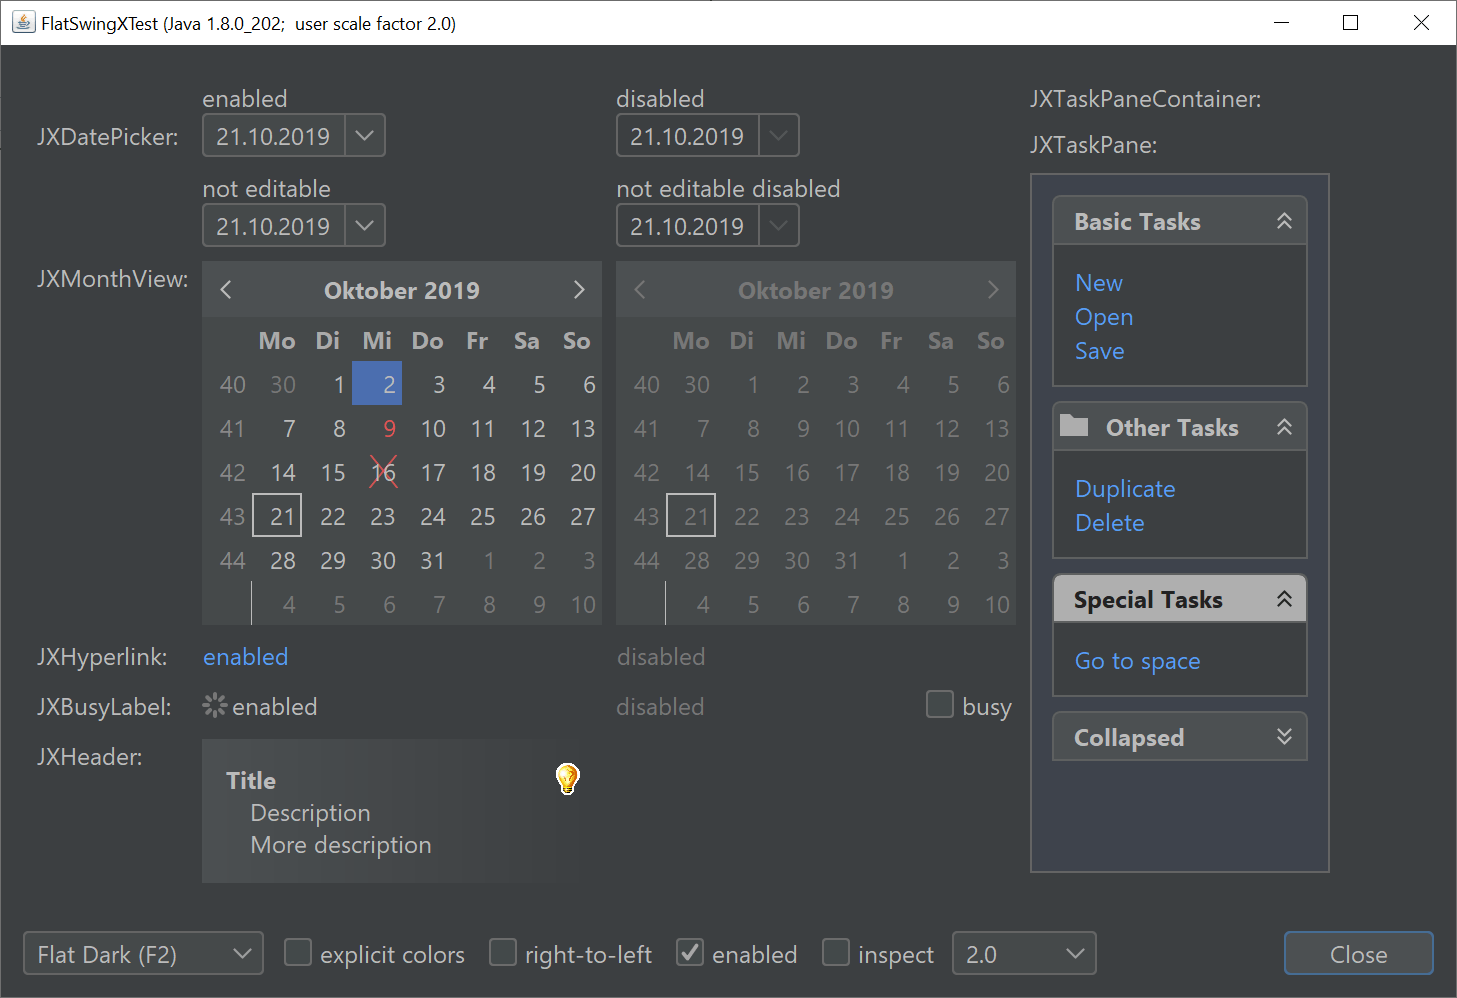
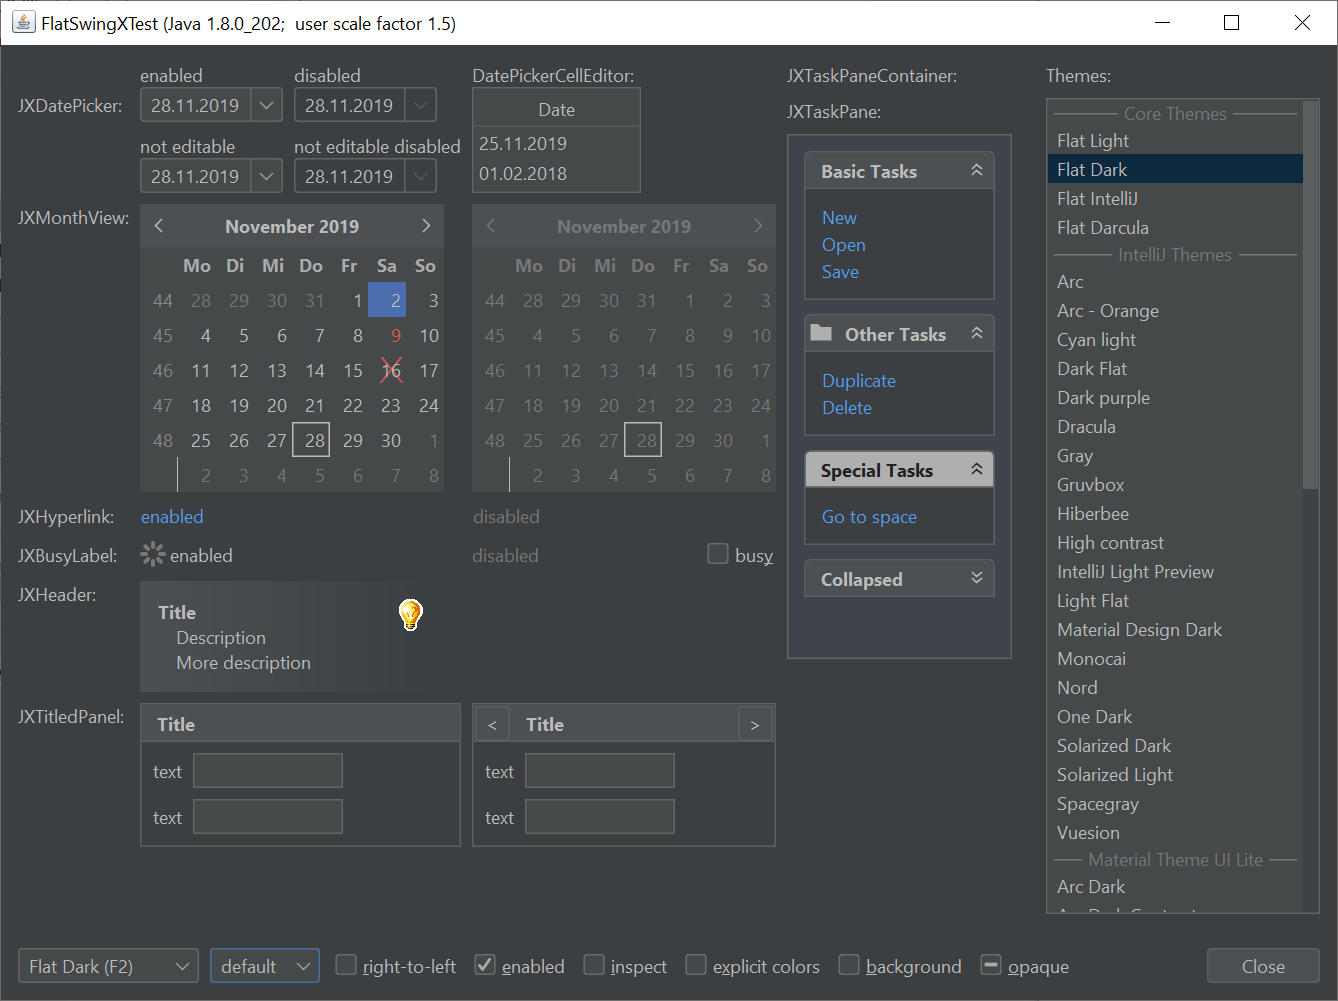
SwingX: JXTitledPanel support (issue #22)

diff --git a/flatlaf-testing/src/main/java/com/formdev/flatlaf/testing/swingx/FlatSwingXTest.java b/flatlaf-testing/src/main/java/com/formdev/flatlaf/testing/swingx/FlatSwingXTest.java
@@ -36,6 +36,12 @@ public class FlatSwingXTest
 	public static void main( String[] args ) {
 		SwingUtilities.invokeLater( () -> {
 			FlatTestFrame frame = FlatTestFrame.create( args, "FlatSwingXTest" );
+
+			// without this, painting becomes very slow as soon as JXTitledPanel
+			// is used, because JXTitledPanel sets opaque to false and JXPanel
+			// then installs its own repaint manager
+			UIManager.put( "JXPanel.patch", true );
+
 			frame.useApplyComponentOrientation = true;
 			frame.showFrame( FlatSwingXTest::new );
 		} );
@@ -107,6 +113,19 @@ public class FlatSwingXTest
 		table = new JTable();
 		JLabel headerLabel = new JLabel();
 		JXHeader xHeader1 = new JXHeader();
+		JXTitledPanel xTitledPanel1 = new JXTitledPanel();
+		JLabel label7 = new JLabel();
+		JTextField textField1 = new JTextField();
+		JLabel label8 = new JLabel();
+		JTextField textField2 = new JTextField();
+		JLabel titledPanelLabel = new JLabel();
+		JXTitledPanel xTitledPanel2 = new JXTitledPanel();
+		JLabel label9 = new JLabel();
+		JTextField textField3 = new JTextField();
+		JLabel label10 = new JLabel();
+		JTextField textField4 = new JTextField();
+		JButton button1 = new JButton();
+		JButton button2 = new JButton();
 
 		//======== this ========
 		setLayout(new MigLayout(
@@ -125,7 +144,9 @@ public class FlatSwingXTest
 			"[]" +
 			"[]" +
 			"[]" +
-			"[]"));
+			"[]" +
+			"[]" +
+			"[37]"));
 
 		//---- label1 ----
 		label1.setText("enabled");
@@ -345,6 +366,70 @@ public class FlatSwingXTest
 		xHeader1.setDescription("Description\nMore description");
 		xHeader1.setIcon(new ImageIcon(getClass().getResource("/org/jdesktop/swingx/plaf/windows/resources/tipoftheday.png")));
 		add(xHeader1, "cell 1 7 3 1,width 200");
+
+		//======== xTitledPanel1 ========
+		{
+			xTitledPanel1.setTitle("Title");
+			xTitledPanel1.setOpaque(true);
+			Container xTitledPanel1ContentContainer = xTitledPanel1.getContentContainer();
+			xTitledPanel1ContentContainer.setLayout(new MigLayout(
+				"hidemode 3",
+				// columns
+				"[fill]" +
+				"[100,fill]",
+				// rows
+				"[]" +
+				"[]"));
+
+			//---- label7 ----
+			label7.setText("text");
+			xTitledPanel1ContentContainer.add(label7, "cell 0 0");
+			xTitledPanel1ContentContainer.add(textField1, "cell 1 0");
+
+			//---- label8 ----
+			label8.setText("text");
+			xTitledPanel1ContentContainer.add(label8, "cell 0 1");
+			xTitledPanel1ContentContainer.add(textField2, "cell 1 1");
+		}
+		add(xTitledPanel1, "cell 1 8 2 1,grow");
+
+		//---- titledPanelLabel ----
+		titledPanelLabel.setText("JXTitledPanel:");
+		add(titledPanelLabel, "cell 0 8,aligny top,growy 0");
+
+		//======== xTitledPanel2 ========
+		{
+			xTitledPanel2.setTitle("Title");
+			xTitledPanel2.setOpaque(true);
+			xTitledPanel2.setLeftDecoration(button1);
+			xTitledPanel2.setRightDecoration(button2);
+			Container xTitledPanel2ContentContainer = xTitledPanel2.getContentContainer();
+			xTitledPanel2ContentContainer.setLayout(new MigLayout(
+				"hidemode 3",
+				// columns
+				"[fill]" +
+				"[100,fill]",
+				// rows
+				"[]" +
+				"[]"));
+
+			//---- label9 ----
+			label9.setText("text");
+			xTitledPanel2ContentContainer.add(label9, "cell 0 0");
+			xTitledPanel2ContentContainer.add(textField3, "cell 1 0");
+
+			//---- label10 ----
+			label10.setText("text");
+			xTitledPanel2ContentContainer.add(label10, "cell 0 1");
+			xTitledPanel2ContentContainer.add(textField4, "cell 1 1");
+		}
+		add(xTitledPanel2, "cell 3 8,grow");
+
+		//---- button1 ----
+		button1.setText("<");
+
+		//---- button2 ----
+		button2.setText(">");
 		// JFormDesigner - End of component initialization  //GEN-END:initComponents
 
 		xDatePicker1.setDate( new Date() );

diff --git a/flatlaf-swingx/src/main/java/com/formdev/flatlaf/swingx/ui/FlatTitledPanelUI.java b/flatlaf-swingx/src/main/java/com/formdev/flatlaf/swingx/ui/FlatTitledPanelUI.java
@@ -1,0 +1,96 @@
+/*
+ * Copyright 2019 FormDev Software GmbH
+ *
+ * Licensed under the Apache License, Version 2.0 (the "License");
+ * you may not use this file except in compliance with the License.
+ * You may obtain a copy of the License at
+ *
+ *     http://www.apache.org/licenses/LICENSE-2.0
+ *
+ * Unless required by applicable law or agreed to in writing, software
+ * distributed under the License is distributed on an "AS IS" BASIS,
+ * WITHOUT WARRANTIES OR CONDITIONS OF ANY KIND, either express or implied.
+ * See the License for the specific language governing permissions and
+ * limitations under the License.
+ */
+
+package com.formdev.flatlaf.swingx.ui;
+
+import static com.formdev.flatlaf.util.UIScale.scale;
+import java.awt.Color;
+import java.awt.Font;
+import java.awt.Graphics2D;
+import java.awt.Insets;
+import java.awt.geom.Rectangle2D;
+import javax.swing.JComponent;
+import javax.swing.UIManager;
+import javax.swing.plaf.ComponentUI;
+import org.jdesktop.swingx.JXTitledPanel;
+import org.jdesktop.swingx.SwingXUtilities;
+import org.jdesktop.swingx.painter.MattePainter;
+import org.jdesktop.swingx.plaf.PainterUIResource;
+import org.jdesktop.swingx.plaf.basic.BasicTitledPanelUI;
+import com.formdev.flatlaf.ui.FlatLineBorder;
+import com.formdev.flatlaf.util.UIScale;
+
+/**
+ * Provides the Flat LaF UI delegate for {@link org.jdesktop.swingx.JXTitledPanel}.
+ *
+ * @author Karl Tauber
+ */
+public class FlatTitledPanelUI
+	extends BasicTitledPanelUI
+{
+	public static ComponentUI createUI( JComponent c ) {
+		return new FlatTitledPanelUI();
+	}
+
+	@Override
+	protected void installDefaults( JXTitledPanel titledPanel ) {
+		super.installDefaults( titledPanel );
+
+		// replace gradient background
+		installProperty( titledPanel, "titlePainter", new PainterUIResource<>(
+			new TitlePainter( UIManager.getColor( "JXTitledPanel.titleBackground" ),
+				UIManager.getColor( "JXTitledPanel.borderColor" ) ) ) );
+
+		// make title bold
+		installProperty( titledPanel, "titleFont", UIManager.getFont( "JXTitledPanel.titleFont" ).deriveFont( Font.BOLD ) );
+	}
+
+	@Override
+	protected void installComponents( JXTitledPanel titledPanel ) {
+		super.installComponents( titledPanel );
+
+		if (SwingXUtilities.isUIInstallable(titledPanel.getBorder()))
+			titledPanel.setBorder( new FlatLineBorder( new Insets( 1, 1, 1, 1 ),
+				UIManager.getColor( "JXTitledPanel.borderColor" ) ) );
+	}
+
+	@Override
+	protected Insets getCaptionInsets() {
+		return UIScale.scale( super.getCaptionInsets() );
+	}
+
+	//---- class TitlePainter -------------------------------------------------
+
+	private static class TitlePainter
+		extends MattePainter
+	{
+		private final Color borderColor;
+
+		TitlePainter( Color color, Color borderColor ) {
+			super( color );
+			this.borderColor = borderColor;
+		}
+
+		@Override
+		protected void doPaint( Graphics2D g, Object component, int width, int height ) {
+			super.doPaint( g, component, width, height );
+
+			float h = scale( 1f );
+			g.setColor( borderColor );
+			g.fill( new Rectangle2D.Float( 0, height - h, width, h ) );
+		}
+	}
+}

diff --git a/flatlaf-swingx/src/main/java/com/formdev/flatlaf/swingx/ui/FlatTaskPaneUI.java b/flatlaf-swingx/src/main/java/com/formdev/flatlaf/swingx/ui/FlatTaskPaneUI.java
@@ -84,7 +84,7 @@ public class FlatTaskPaneUI
 	public void uninstallUI( JComponent c ) {
 		if( group.getContentPane() instanceof JComponent ) {
 			// uninstall our content border, because it does not implement UIResource,
-			// to alloy other LaF to install its own border
+			// to allow other LaF to install its own border
 			JComponent content = (JComponent) group.getContentPane();
 			if( content.getBorder() instanceof FlatContentPaneBorder )
 				content.setBorder( null );

diff --git a/CHANGELOG.md b/CHANGELOG.md
@@ -15,6 +15,7 @@ FlatLaf Change Log
 - ComboBox: Fixed issues with NetBeans `org.openide.awt.ColorComboBox`
   component.
 - Hex color values in `.properties` files now must start with a `#` character.
+- SwingX: Support `JXTitledPanel`. (issue #22)
 - SwingX: Fixed too wide border when using date picker as table cell editor.
   (issue #24)
 - JIDE Common Layer: Fixed `JidePopup` border.

diff --git a/flatlaf-swingx/README.md b/flatlaf-swingx/README.md
@@ -16,6 +16,7 @@ this addon:
 - `JXMonthView`
 - `JXTaskPaneContainer`
 - `JXTaskPane`
+- `JXTitledPanel`
 
 ![Flat Light SwingX Demo](../images/FlatLightSwingXTest.png)
 
